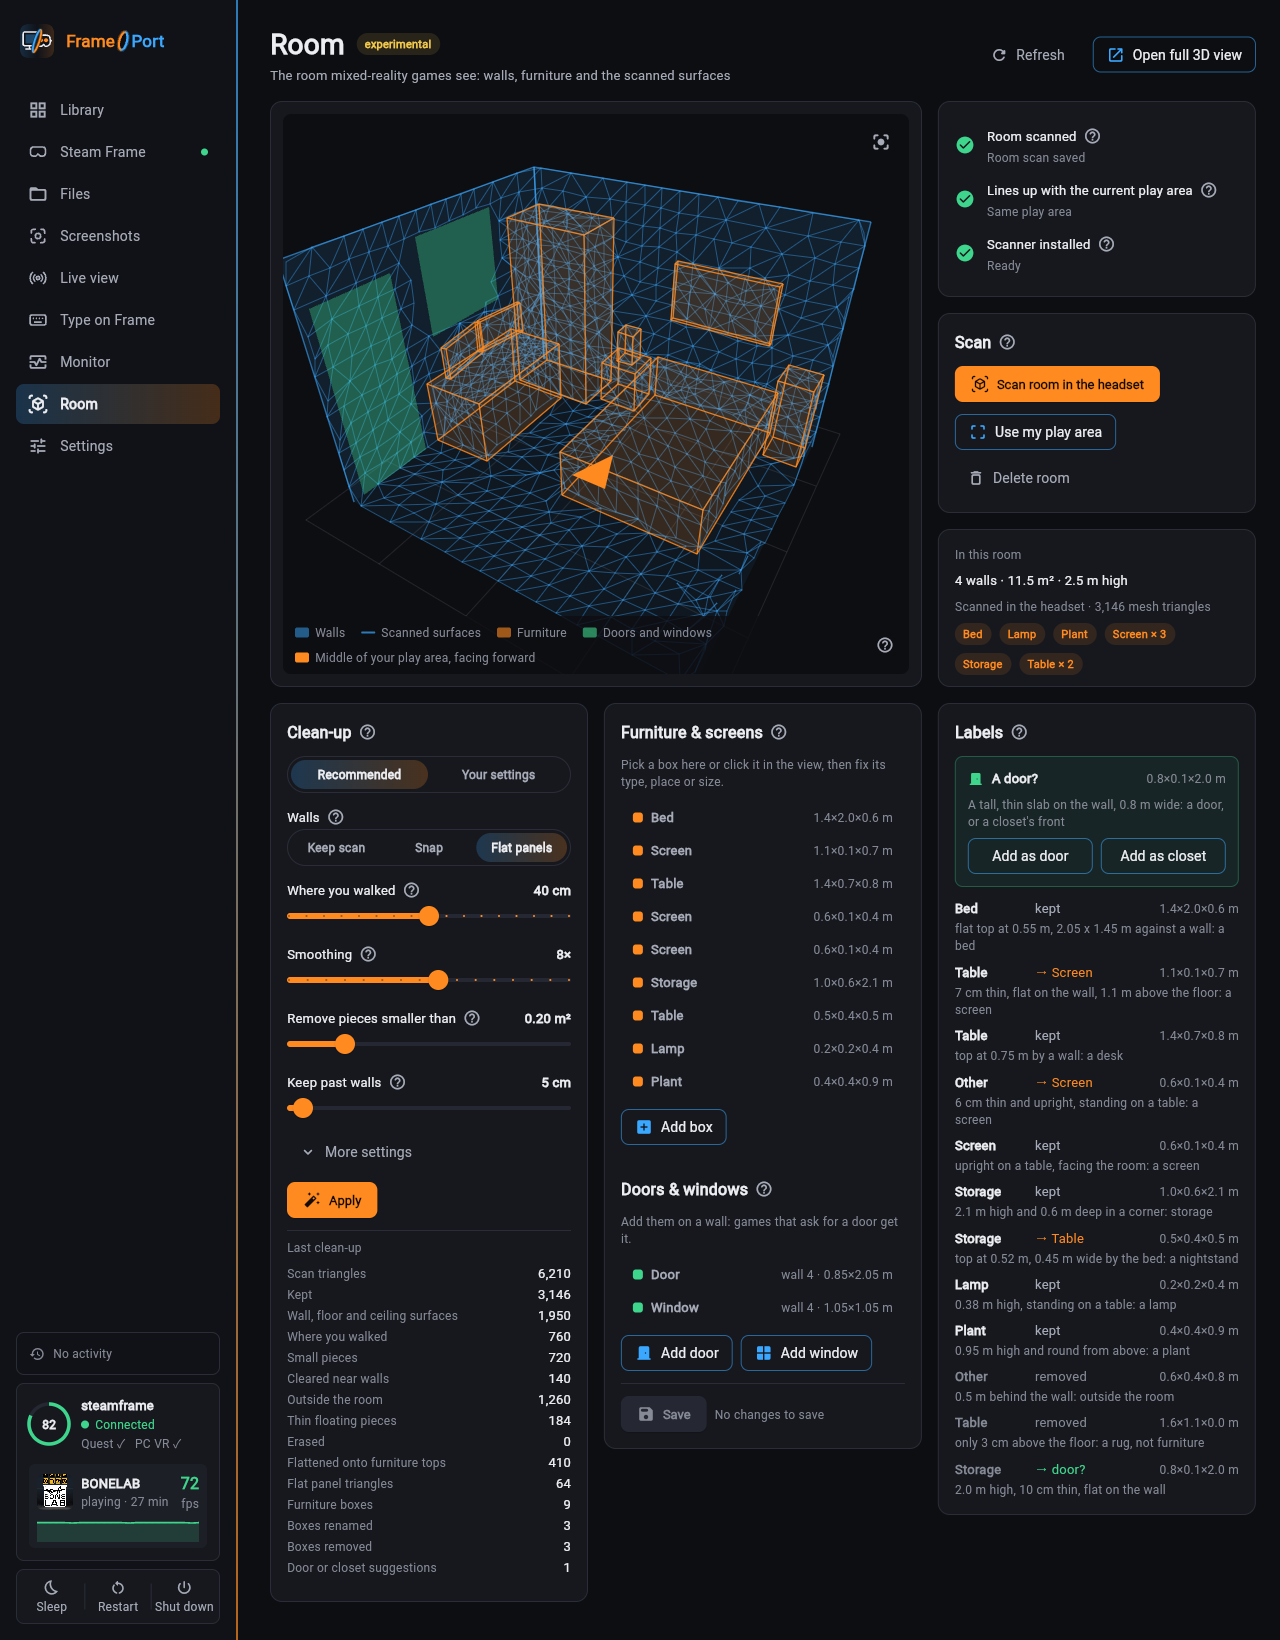
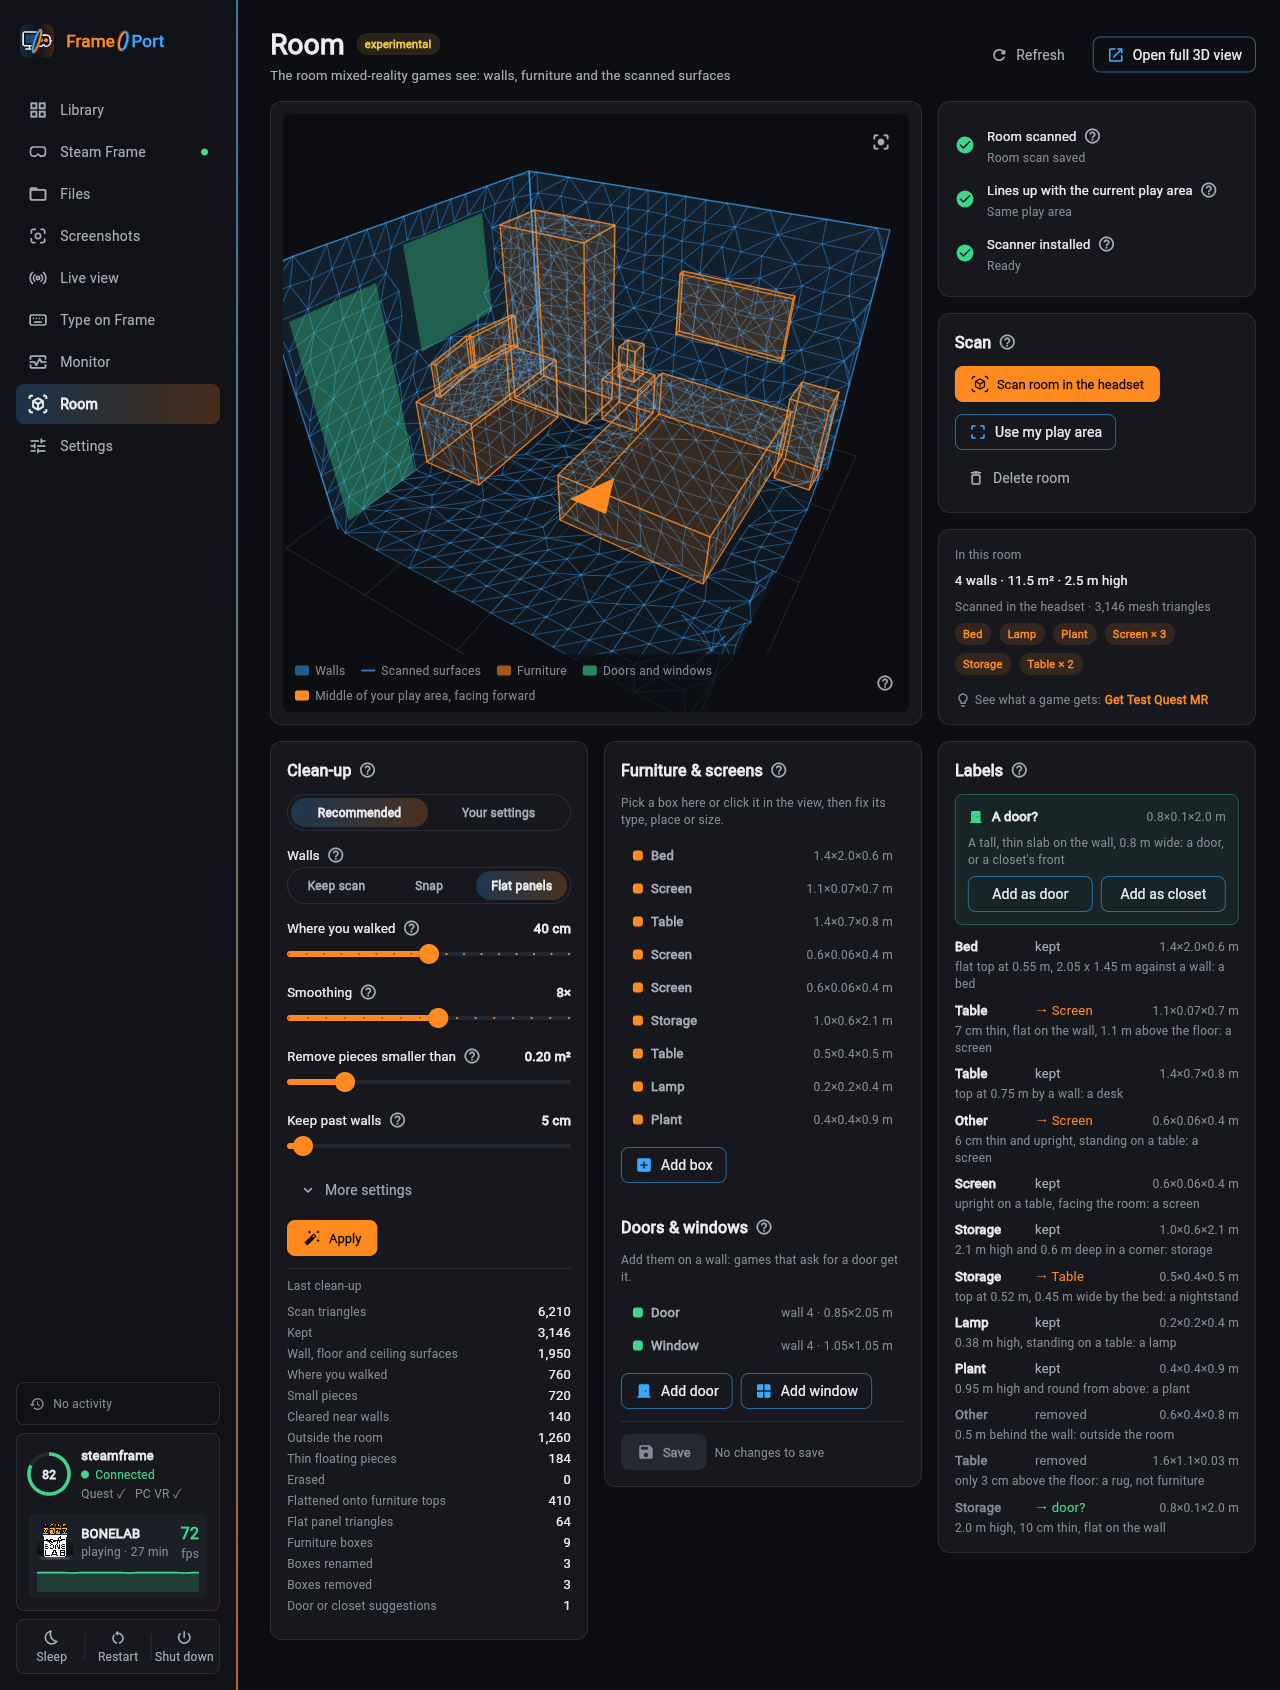
Room tab: the right column sizes to its content (the Test Quest MR line was clipped when Delete room wrapped or the furniture chips took two rows); the top row stays level by measuring both sides (a short column's last card grows, a tall one makes the 3D view taller); box sizes under 10 cm show two 

diff --git a/src/frameport/ui/views/room.py b/src/frameport/ui/views/room.py
@@ -112,9 +112,10 @@ class RoomView:
                               left=0, right=0, bottom=0, bgcolor=T.soft(T.BG, 0.82),
                               padding=ft.Padding(T.S3, T.S2, T.S3, T.S2),
                               border_radius=ft.BorderRadius(0, 0, T.RADIUS_SM, T.RADIUS_SM))
-        view = ft.Stack([self.canvas.control, legend, self.placeholder,
-                         ft.Container(self.reset_btn, right=T.S2, top=T.S2)], height=T.px(CANVAS_HEIGHT))
-        self.canvas_card = C.card(view, padding=T.S3, col={"xs": 12, "lg": 8})
+        self.view = ft.Stack([self.canvas.control, legend, self.placeholder,
+                              ft.Container(self.reset_btn, right=T.S2, top=T.S2)], height=T.px(CANVAS_HEIGHT))
+        self.canvas_card = C.card(self.view, padding=T.S3, col={"xs": 12, "lg": 8})
+        self.canvas_card.on_size_change = self._card_sized
 
         # status
         self.checks = ft.Container(C.checklist([C.Check(None, tr("Checking the room…"))]))
@@ -137,8 +138,10 @@ class RoomView:
         self.summary = C.body("", T.TEXT)
         self.source = C.meta("")
         self.furniture = ft.Row([], spacing=T.S2, run_spacing=T.S2, wrap=True)
-        # the right column: as tall as the 3D view's card (its last card takes what's left),
-        # every card with the same padding
+        # the right column sizes to its content (never clipped: window width, UI scale and the furniture chips change
+        # its height); level() then makes the top row end level: a short column's last card grows to the 3D view's
+        # card (self.level_gap), a tall column makes the 3D view taller. Every card with the same padding.
+        self.level_gap = ft.Container(height=0)
         side = ft.Column([
             C.card(ft.Column([self.checks, self.error], spacing=T.S2), padding=T.S4),
             C.card(ft.Column([C.section(tr("Scan"), self.scan_box,
@@ -146,10 +149,11 @@ class RoomView:
                                         ft.Row([self.boundary_btn, self.delete_btn], spacing=T.S2, wrap=True),
                                         help="mr_room")], spacing=T.S3), padding=T.S4),
             C.card(ft.Column([C.meta(tr("In this room")), self.summary, self.source, self.furniture,
-                              ft.Container(expand=True), self._tester()], spacing=T.S2),
-                   padding=T.S4, expand=True),
+                              self.level_gap, self._tester()], spacing=T.S2),
+                   padding=T.S4),
         ], spacing=T.S4, col={"xs": 12, "lg": 4}, horizontal_alignment=ft.CrossAxisAlignment.STRETCH,
-            height=T.px(CANVAS_HEIGHT) + 2 * T.S3 + 2)
+            on_size_change=self._side_sized)
+        self._sizes = {"card": None, "side": None}
         # editing: the scan clean-up, what the label rules decided, furniture boxes + doors / windows
         from .room_edit import CleanupCard, FurnitureEditor, LabelsCard
 
@@ -308,6 +312,40 @@ class RoomView:
     def _ask_delete(self, e) -> None:
         C.confirm(self.app.page, tr("Delete room?"), tr("Games will use a simple room until you save another room."),
                   tr("Delete room"), lambda: RS.operate(self.app, "delete"), danger=True)
+
+    # ------------------------------------------------------------------ the top row ends level
+    def _card_sized(self, e) -> None:
+        self._sizes["card"] = (e.width, e.height)
+        self.level()
+
+    def _side_sized(self, e) -> None:
+        self._sizes["side"] = (e.width, e.height)
+        self.level()
+
+    def level(self) -> None:
+        """The right column's height (its content's, measured) against the 3D view's card: a shorter column gets a
+        gap in its last card, a taller one makes the 3D view taller. Stacked (narrow window): neither."""
+        card, side = self._sizes["card"], self._sizes["side"]
+        if not card or not side:
+            return
+        base = T.px(CANVAS_HEIGHT)
+        base_card = base + 2 * T.S3 + 2  # (the card's padding and border)
+        content = side[1] - (self.level_gap.height or 0)
+        gap, view = 0, base
+        if side[0] < card[0] * 0.9:  # side by side
+            if content <= base_card:
+                gap = int(base_card - content)
+            else:
+                view = base + int(content - base_card + 0.999)
+        changed = []
+        if gap != (self.level_gap.height or 0):
+            self.level_gap.height = gap
+            changed.append(self.level_gap)
+        if view != self.view.height:
+            self.view.height = self.canvas.control.height = view
+            changed.append(self.view)
+        if changed:
+            C.update(*changed)
 
     async def show_editing(self) -> None:
         """Scroll down to the editing cards (Clean-up, Furniture & screens, Labels)."""

diff --git a/src/frameport/ui/views/room_edit.py b/src/frameport/ui/views/room_edit.py
@@ -324,8 +324,7 @@ class LabelsCard:
     @staticmethod
     def _size(box: dict) -> str:
         try:
-            return tr("{w}×{d}×{h} m").format(w=f"{float(box['w']):.1f}", d=f"{float(box['d']):.1f}",
-                                               h=f"{float(box['h']):.1f}")
+            return size_text(float(box["w"]), float(box["d"]), float(box["h"]))
         except (KeyError, TypeError, ValueError):
             return ""
 
@@ -398,6 +397,15 @@ def _panel(rows: list[ft.Control]) -> ft.Container:
     return ft.Container(ft.Column(rows, spacing=T.S3, tight=True,
                                   horizontal_alignment=ft.CrossAxisAlignment.STRETCH),
                         bgcolor=T.SURFACE_2, border_radius=T.RADIUS_SM, padding=T.S3, visible=False)
+
+
+def metres(value: float) -> str:
+    """A box size in metres: one decimal, two below 10 cm (a rug's 3 cm isn't "0.0")."""
+    return f"{value:.2f}" if abs(value) < 0.095 else f"{value:.1f}"
+
+
+def size_text(w: float, d: float, h: float) -> str:
+    return tr("{w}×{d}×{h} m").format(w=metres(w), d=metres(d), h=metres(h))
 
 
 def field_label(name: str) -> str:
@@ -529,7 +537,7 @@ class FurnitureEditor:
     # ------------------------------------------------------------------ lists
     @staticmethod
     def _box_size(v) -> str:
-        return tr("{w}×{d}×{h} m").format(w=f"{v.w:.1f}", d=f"{v.d:.1f}", h=f"{v.h:.1f}")
+        return size_text(v.w, v.d, v.h)
 
     def _plane_info(self, i: int) -> str:
         p = self.room.planes[i]

diff --git a/tests/test_room_refine_ui.py b/tests/test_room_refine_ui.py
@@ -372,3 +372,10 @@ class _local_dir:
 
     def __exit__(self, *a):
         return False
+
+
+def test_box_sizes_keep_thin_sizes_readable():
+    from frameport.ui.views.room_edit import metres, size_text
+
+    assert metres(0.03) == "0.03" and metres(0.07) == "0.07" and metres(0.5) == "0.5" and metres(2.05) == "2.0"
+    assert size_text(1.6, 1.1, 0.03) == "1.6×1.1×0.03 m"
